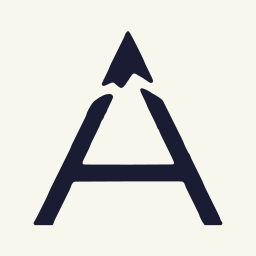
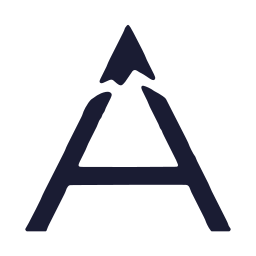
feat(brand): icono de la aplicación y logotipos sin fondo
- Integra el set de iconos 16–1024 px, .ico, .icns y .svg.
- favicon.png e icons/ PWA (192/512 y maskable) servidos por Flet.
- Logotipos e isotipos transparentes por tema; cabecera y Acerca de usan
  la variante correcta sin caja de fondo.
- Icono de ventana con andes_icono.
- Eval ajustada al logotipo-imagen: 68/68.

Changed region(s): [[0.0938, 0.0938, 0.8125, 0.9062], [0.625, 0.375, 0.9062, 0.9062], [0.5, 0.1562, 0.625, 0.4375]]

diff --git a/scripts/eval_web_gui.py b/scripts/eval_web_gui.py
@@ -256,16 +256,20 @@ def main() -> int:
     try:
         # 1. arranque y catálogo
         texts: list[str] = []
+        joined = ""
         deadline = time.time() + 45
         while time.time() < deadline:
             browser.js("document.querySelector('flt-semantics-placeholder')?.click()")
             time.sleep(1.0)
             texts = browser.texts()
-            if any("series" in text for text in texts):
+            joined = " ".join(texts).upper()
+            if "ACERCA DE ANDES" in joined and any(
+                text.strip().replace(",", "").isdigit() for text in texts
+            ):
                 break
         check("render inicial", bool(texts), f"{len(texts)} nodos semánticos")
-        joined = " ".join(texts).upper()
-        check("marca ANDES", "ANDES" in joined and "OPEN DATA PLATFORM" in joined)
+        check("marca ANDES", "ACERCA DE ANDES" in joined
+              and "OPEN DATA PLATFORM" in joined)
         check("tema alterna", browser.click_label("Cambiar tema"))
         time.sleep(1.0)
         browser.shot("01b-tema.png")
@@ -285,7 +289,11 @@ def main() -> int:
         time.sleep(0.8)
         browser.click_semantics("Cerrar")
         time.sleep(0.8)
-        check("catálogo indexado", any(t.strip().endswith("series") for t in texts))
+        texts = browser.texts()
+        check(
+            "catálogo indexado",
+            any(t.strip().replace(",", "").isdigit() for t in texts),
+        )
         browser.shot("01-inicio.png")
 
         # 2. modo «Todas»: solo búsqueda por palabra clave

diff --git a/bcrp_downloader/gui/views.py b/bcrp_downloader/gui/views.py
@@ -61,7 +61,7 @@ def main(page: ft.Page):
 
     page.title = f"{APP_NAME} — {APP_TAGLINE}"
     try:
-        page.window.icon = branding.ASSETS["mark_dark"]
+        page.window.icon = branding.ASSETS["icon"]
     except Exception:
         pass
     page.bgcolor = BG

diff --git a/bcrp_downloader/core/branding.py b/bcrp_downloader/core/branding.py
@@ -67,6 +67,8 @@ ASSETS = {
     "logo_dark": "andes_logo_oscuro.png",
     "mark_light": "andes_isotipo_claro.png",
     "mark_dark": "andes_isotipo_oscuro.png",
+    "icon": "icon.png",
+    "icon_dir": "icon",
 }
 
 

diff --git a/docs/identidad.md b/docs/identidad.md
@@ -37,7 +37,10 @@ ambos temas). No se usa el color como único portador de información.
 - `assets/andes_logo_claro.png`: logotipo horizontal oscuro con acento dorado.
 - `assets/andes_isotipo_oscuro.png`: isotipo sobre fondo `#1A1C33`.
 - `assets/andes_isotipo_claro.png`: isotipo sobre fondo `#F8F7EE`.
-- Los `.svg` correspondientes son la fuente vectorial oficial.
+- Los `.svg` correspondientes son la fuente vectorial oficial, sin fondo.
+- `assets/icon.png` y `assets/icon/` (16–1024 px, `.ico`, `.icns`, `.svg`):
+  icono de la aplicación para escritorio, web y compilaciones.
+- `assets/favicon.png` y `assets/icons/`: favicon e iconos PWA.
 
 Composición horizontal: isotipo + «ANDES» + «Open Data Platform». El nombre
 tiene mayor jerarquía que el descriptor.
